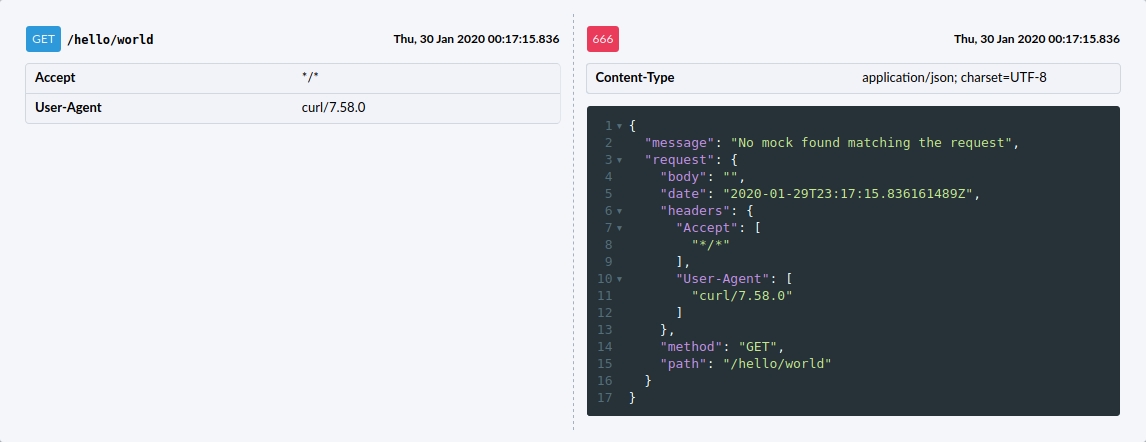
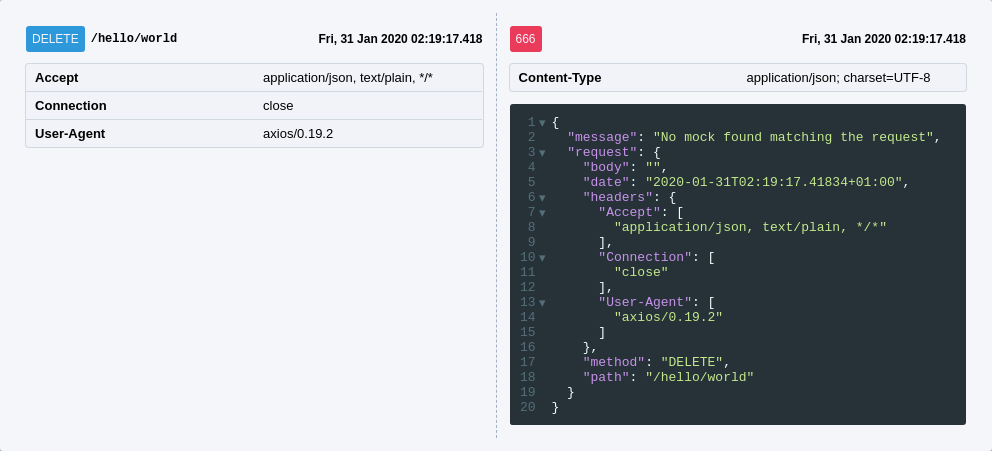
feat: use axios and puppeteer to generate all screenshots

Changed region(s): [[0.0, 0.0588, 1.0, 0.9412], [0.5, 0.2941, 0.9375, 0.9118]]

diff --git a/docs/refresh-screenshots.js b/docs/refresh-screenshots.js
@@ -1,30 +1,101 @@
 const puppeteer = require("puppeteer");
 const path = require("path");
+const axios = require("axios");
 
-(async () => {
+const screenshots_dir = path.join(__dirname, ".vuepress/public/screenshots/");
+const smockerAdminHost = "http://localhost:8081";
+const smockerServerHost = "http://localhost:8080";
+
+const mocks = `
+- request:
+    method: GET
+    path: /hello/world
+  response:
+    status: 200
+    headers:
+      Content-Type: application/json
+    body: >
+      {"message": "Hello, World!"}
+- request:
+    method: POST
+    path: /hello/world
+  response:
+    status: 500
+    headers:
+      Content-Type: application/json
+    body: >
+      {"message": "error"}
+`;
+
+const screenshotElement = async ({ page, name, selector, padding = 0 }) => {
+  const rect = await page.evaluate(selector => {
+    const element = document.querySelector(selector);
+    const { x, y, width, height } = element.getBoundingClientRect();
+    return { left: x, top: y, width, height, id: element.id };
+  }, selector);
+
+  return await page.screenshot({
+    path: screenshots_dir + name,
+    clip: {
+      x: rect.left - padding,
+      y: rect.top - padding,
+      width: rect.width + padding * 2,
+      height: rect.height + padding * 2
+    }
+  });
+};
+
+const screenshotPage = async (page, name) => {
+  return await page.screenshot({ path: screenshots_dir + name });
+};
+
+async function main() {
   const browser = await puppeteer.launch();
   const page = await browser.newPage();
-  page.setViewport({
-    width: 1200,
-    height: 600
-  });
+  page.setViewport({ width: 1200, height: 600 });
 
-  await page.goto("http://localhost:8081/pages/history");
-  await page.click("#date-order");
-  await page.screenshot({
-    path: path.join(
-      __dirname,
-      ".vuepress/public/screenshots/screenshot-history.png"
-    )
-  });
+  // Screenshot empty history
+  await axios.post(smockerAdminHost + "/reset");
+  await page.goto(smockerAdminHost + "/pages/history");
+  await screenshotPage(page, "screenshot-empty-history.png");
 
-  await page.goto("http://localhost:8081/pages/mocks");
-  await page.screenshot({
-    path: path.join(
-      __dirname,
-      ".vuepress/public/screenshots/screenshot-mocks.png"
-    )
+  // Screenshot mocks
+  await axios.post(smockerAdminHost + "/mocks", mocks, {
+    headers: { "Content-Type": "application/x-yaml" }
+  });
+  await page.goto(smockerAdminHost + "/pages/mocks");
+  await page.screenshot({ path: screenshots_dir + "screenshot-mocks.png" });
+
+  // Screenshot history
+  await axios.get(smockerServerHost + "/hello/world");
+  try {
+    await axios.post(smockerServerHost + "/hello/world"); //ignore legit error
+  } catch {}
+  await page.goto(smockerAdminHost + "/pages/history");
+  await screenshotPage(page, "screenshot-history.png");
+
+  // Screenshot history cards
+  await screenshotElement({
+    page,
+    name: "screenshot-hello-world-200.png",
+    selector: ".entry:nth-child(3)"
+  });
+  try {
+    await axios.delete(smockerServerHost + "/hello/world"); //ignore legit error
+  } catch {}
+  await page.reload({ waitUntil: ["networkidle0", "domcontentloaded"] });
+  await screenshotElement({
+    page,
+    name: "screenshot-hello-world-666.png",
+    selector: ".entry:nth-child(2)"
   });
 
   await browser.close();
-})();
+}
+
+main()
+  .then(() => process.exit(0))
+  .catch(e => {
+    console.log("err: " + e);
+    process.exit(1);
+  });
